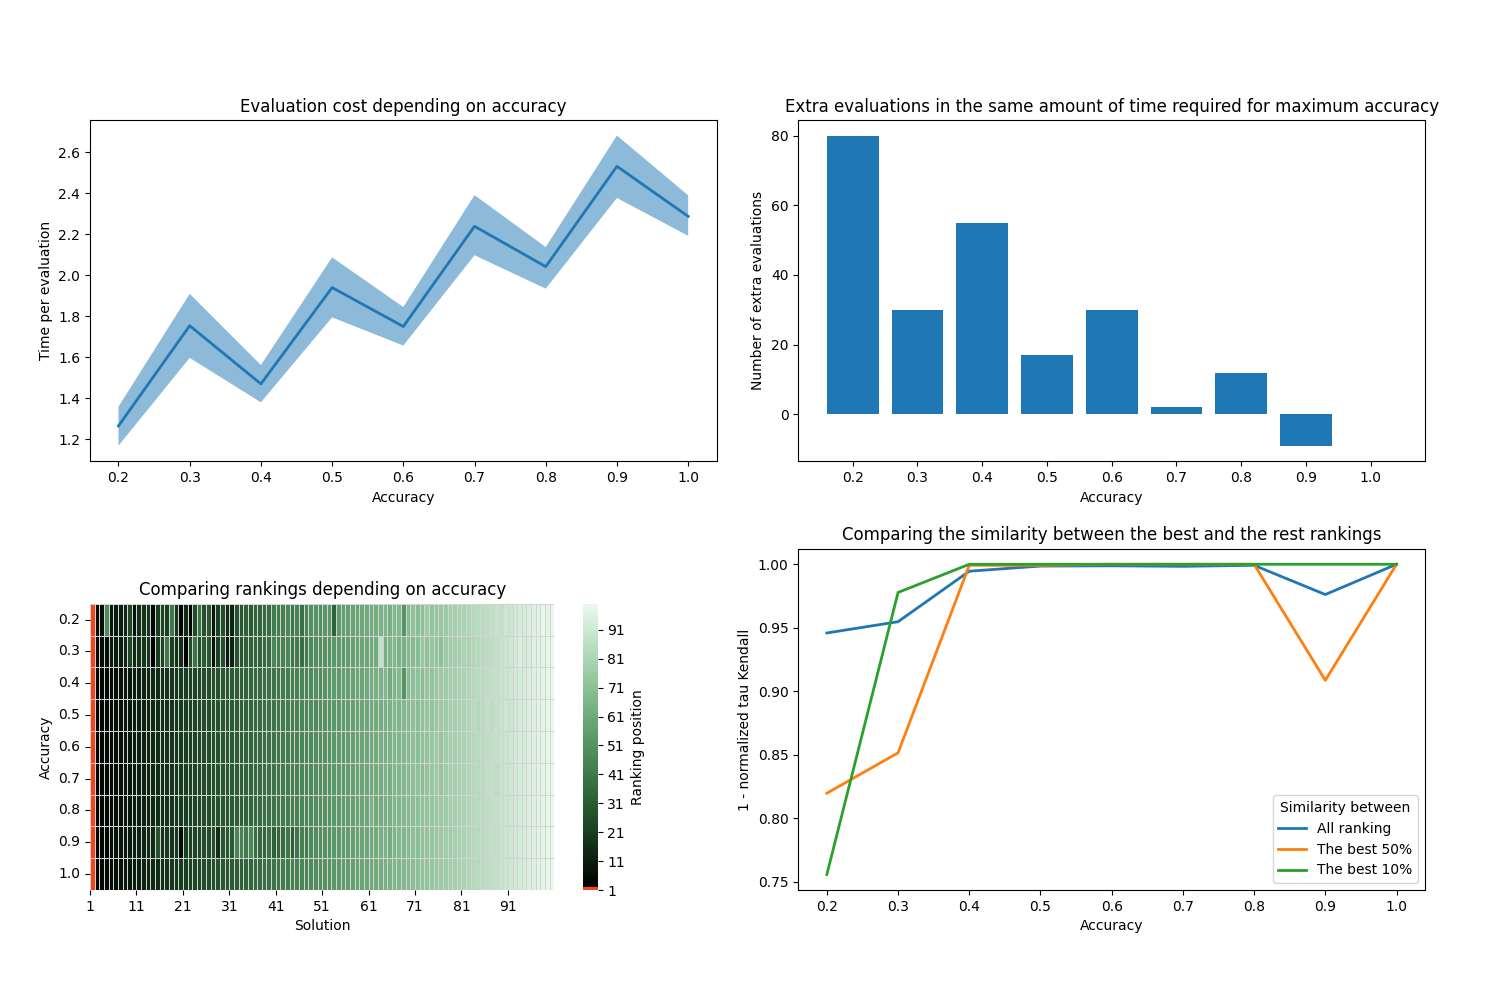
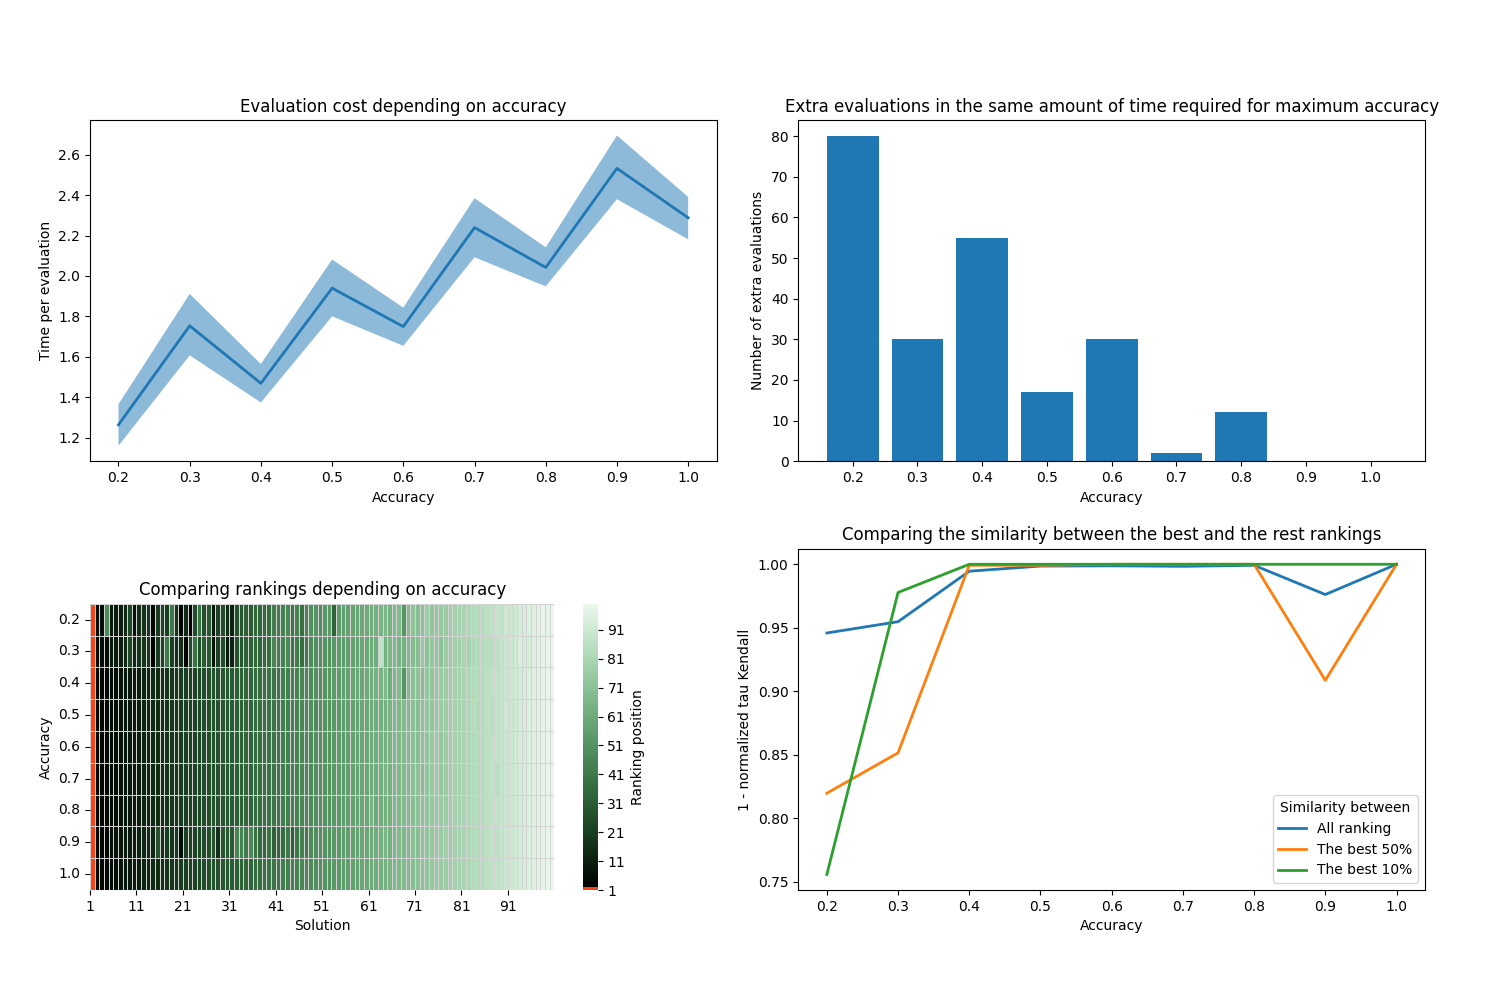
update "UnderstandingAccuracy" experiment

diff --git a/experimentScripts_Turbines/UnderstandingAccuracy_data.py b/experimentScripts_Turbines/UnderstandingAccuracy_data.py
@@ -1,15 +1,8 @@
 # Mediante este script se guarda en una base de datos la información relevante asociada a la 
 # evaluación de un conjunto de configuraciones/diseños de turbinas. El conjunto esta formado por
-# un total de 10 diseños de turbina escogidos de forma aleatoria, y todas las configuraciones del
-# mismo se evalúan considerando diferentes valores de N. Por cada evaluación en conjunto para  
-# un N se guarda la siguiente información:
-
-#1) N: el valor de N.
-#2) Scores: lista de scores asociados a cada evaluación de cada diseño de turbina que forma el conjunto.
-#3) Ranking: lista con el ranking de las turbinas que forman el conjunto (mayor score mejor).
-#4) Tiempos: lista de tiempos de ejecución asociados a cada evaluación de cada diseño que forma el conjunto.
-#5) Tiempo total: suma de los tiempos de la lista anterior.
-#6) Tiempo por evaluación: media de los tiempos de la lista anterior.
+# un total de 10 o 100 diseños de turbina escogidos de forma aleatoria, y todas las configuraciones del
+# mismo se evalúan considerando diferentes valores de N. Se construirán unas bases de datos con la 
+# información de scores y tiempos de ejecución por evaluación.
 
 #==================================================================================================
 # LIBRERÍAS
@@ -225,7 +218,7 @@ df=pd.DataFrame(df,columns=['accuracy','n_solution','score','time'])
 df.to_csv('results/data/Turbines/UnderstandingAccuracy/UnderstandingAccuracyII.csv')
 
 #--------------------------------------------------------------------------------------------------
-# Para la fijación del umbral del método de bisección.
+# Para la fijación del tamaño de muestra del método de bisección.
 #--------------------------------------------------------------------------------------------------
 # Lista con los valores de accuracy que se considerarían por el método de bisección, teniendo en
 # cuenta que el criterio de parada es alcanzar un rango del intervalo de 0.1 y suponiendo que
@@ -249,6 +242,6 @@ for acc in tqdm(list_acc):
 
 df_bisection=pd.DataFrame(df,columns=['accuracy','n_solution','score','cost_per_eval'])
 df_bisection=df_bisection[['accuracy','cost_per_eval']]
-df_bisection.to_csv('results/data/Turbines/UnderstandingAccuracy/df_BisectionThreshold.csv')
+df_bisection.to_csv('results/data/Turbines/UnderstandingAccuracy/df_BisectionSample.csv')
 
 

diff --git a/experimentScripts_Turbines/UnderstandingAccuracy_figures.py b/experimentScripts_Turbines/UnderstandingAccuracy_figures.py
@@ -271,6 +271,8 @@ def from_data_to_figuresII(df):
         save_time=list_total_times[-1]-list_total_times[i]
         # Número de evaluaciones extra que se podrian hacer para agotar el tiempo que se necesita por defecto.
         extra_eval=int(save_time/all_means[i])
+        if extra_eval<0:
+            extra_eval=0
         list_extra_eval.append(extra_eval)
 
     plt.bar([str(acc) for acc in list_acc],list_extra_eval)
